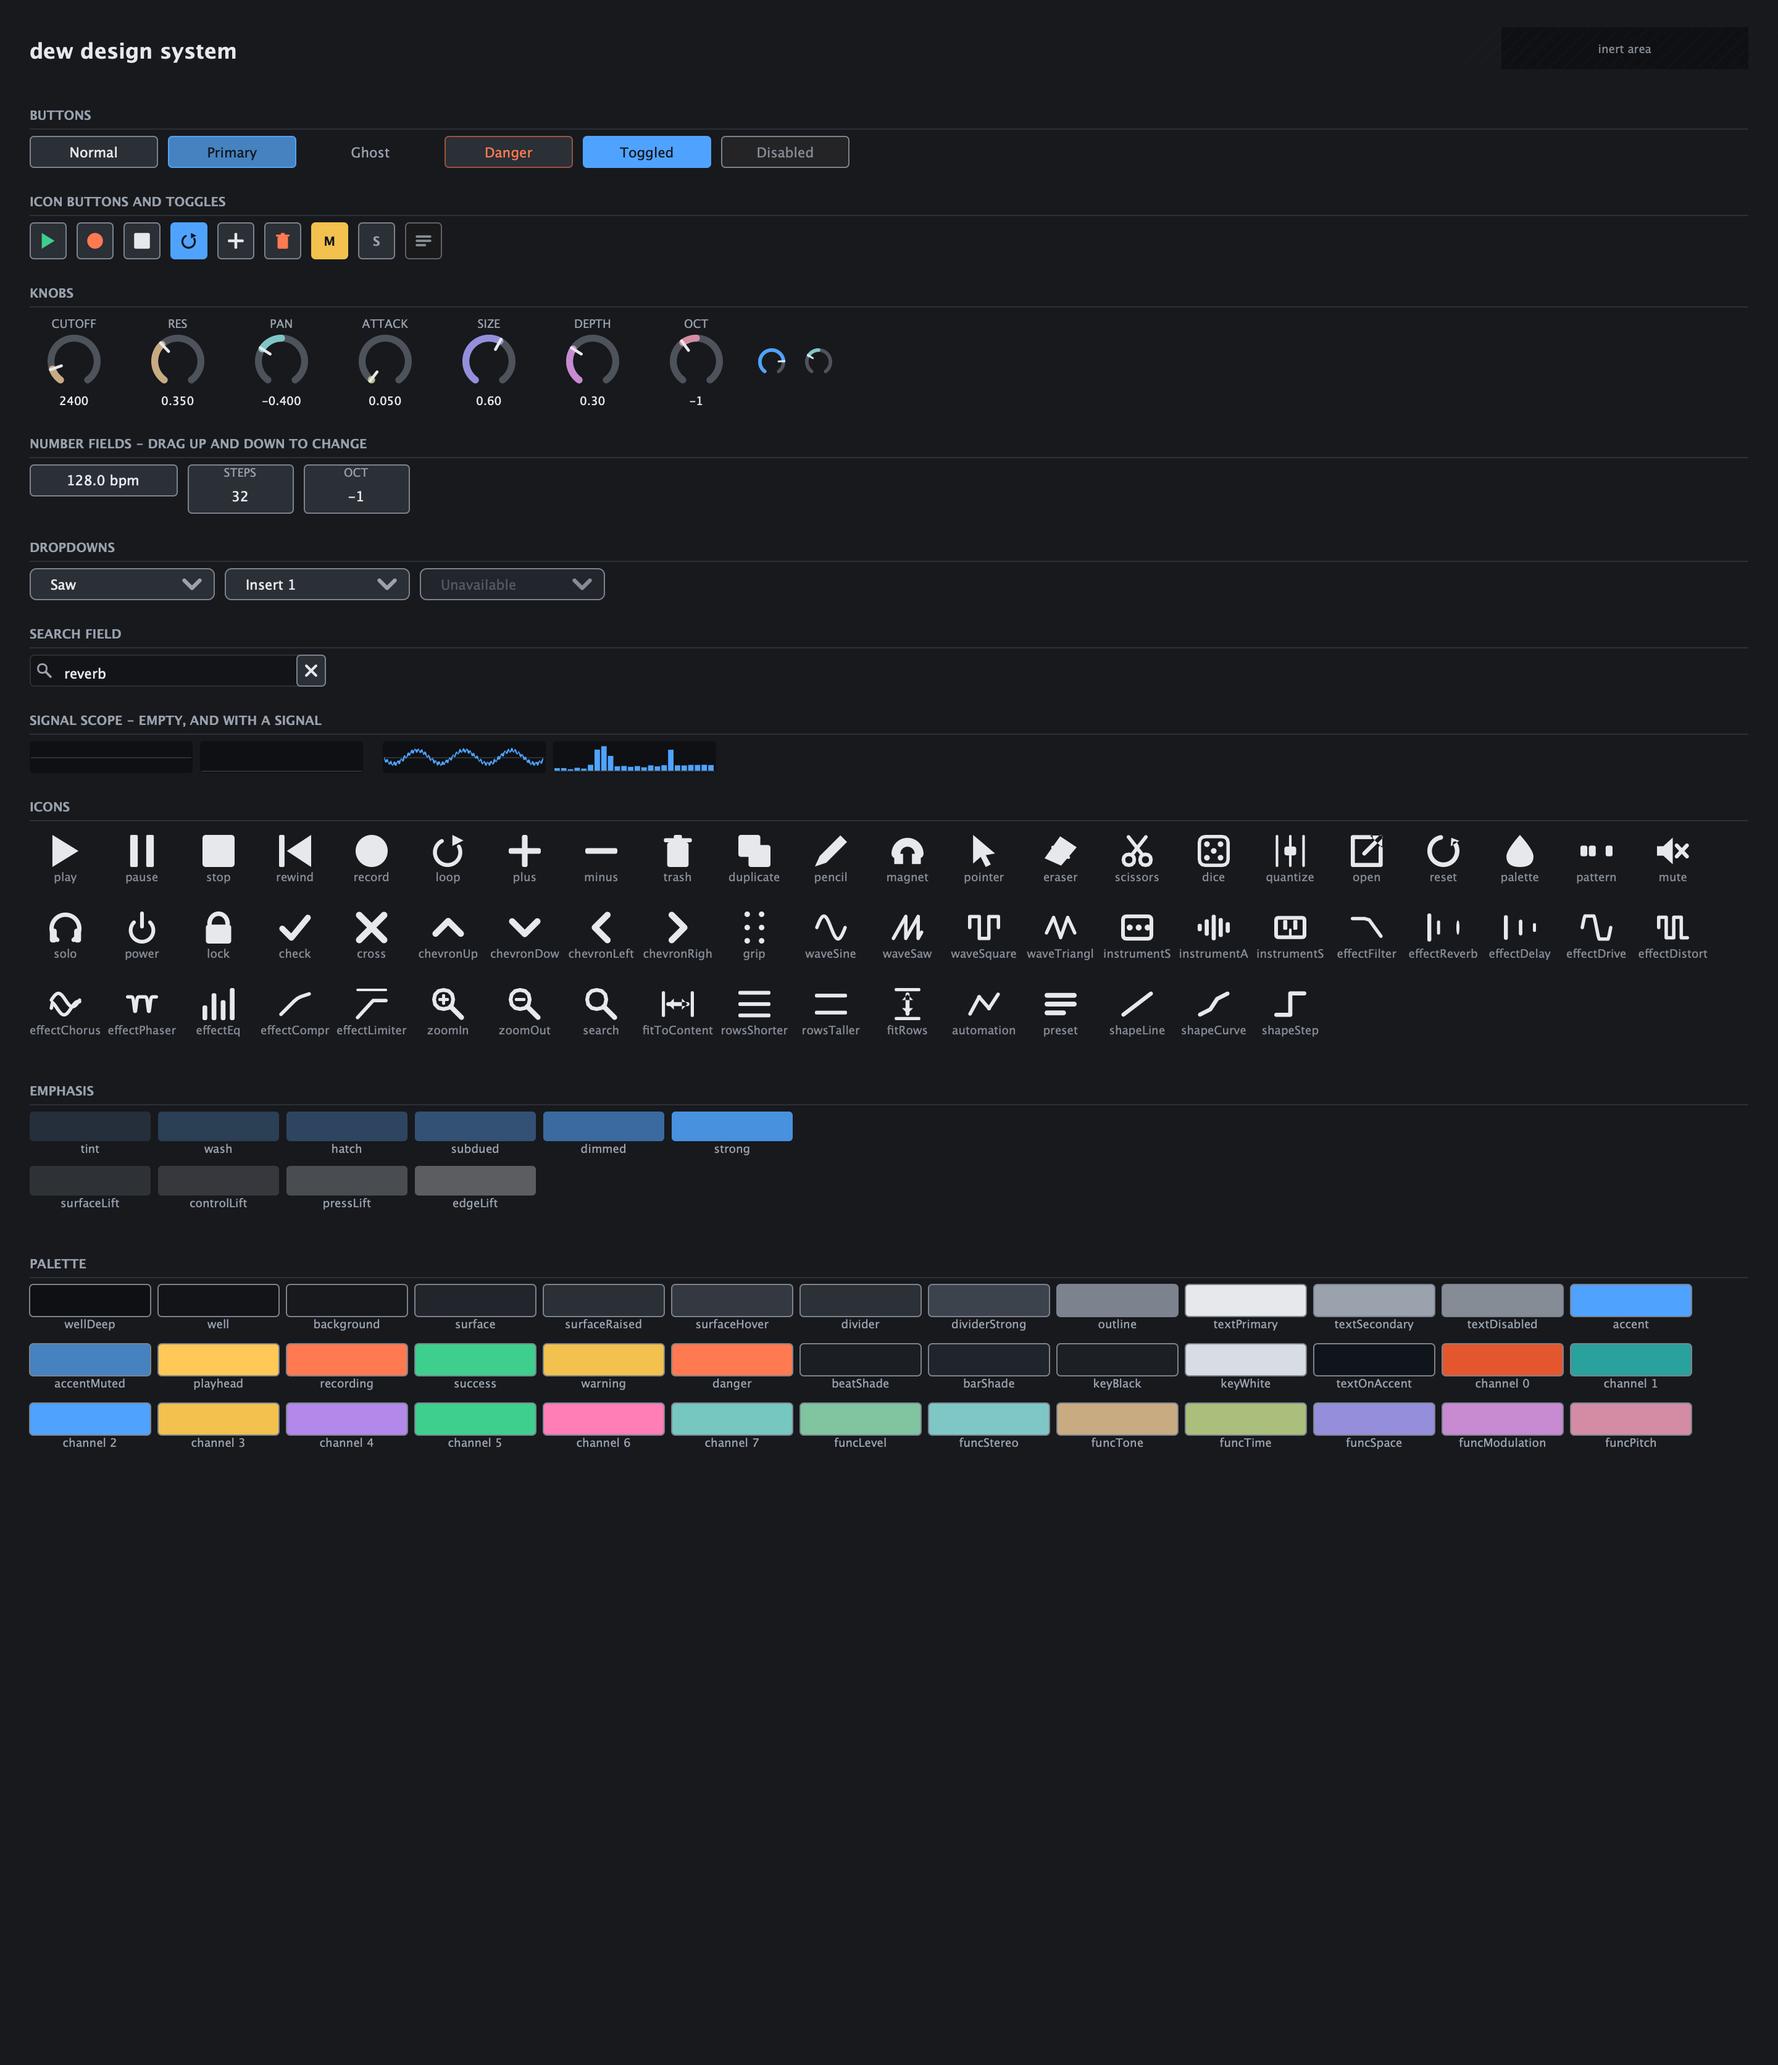
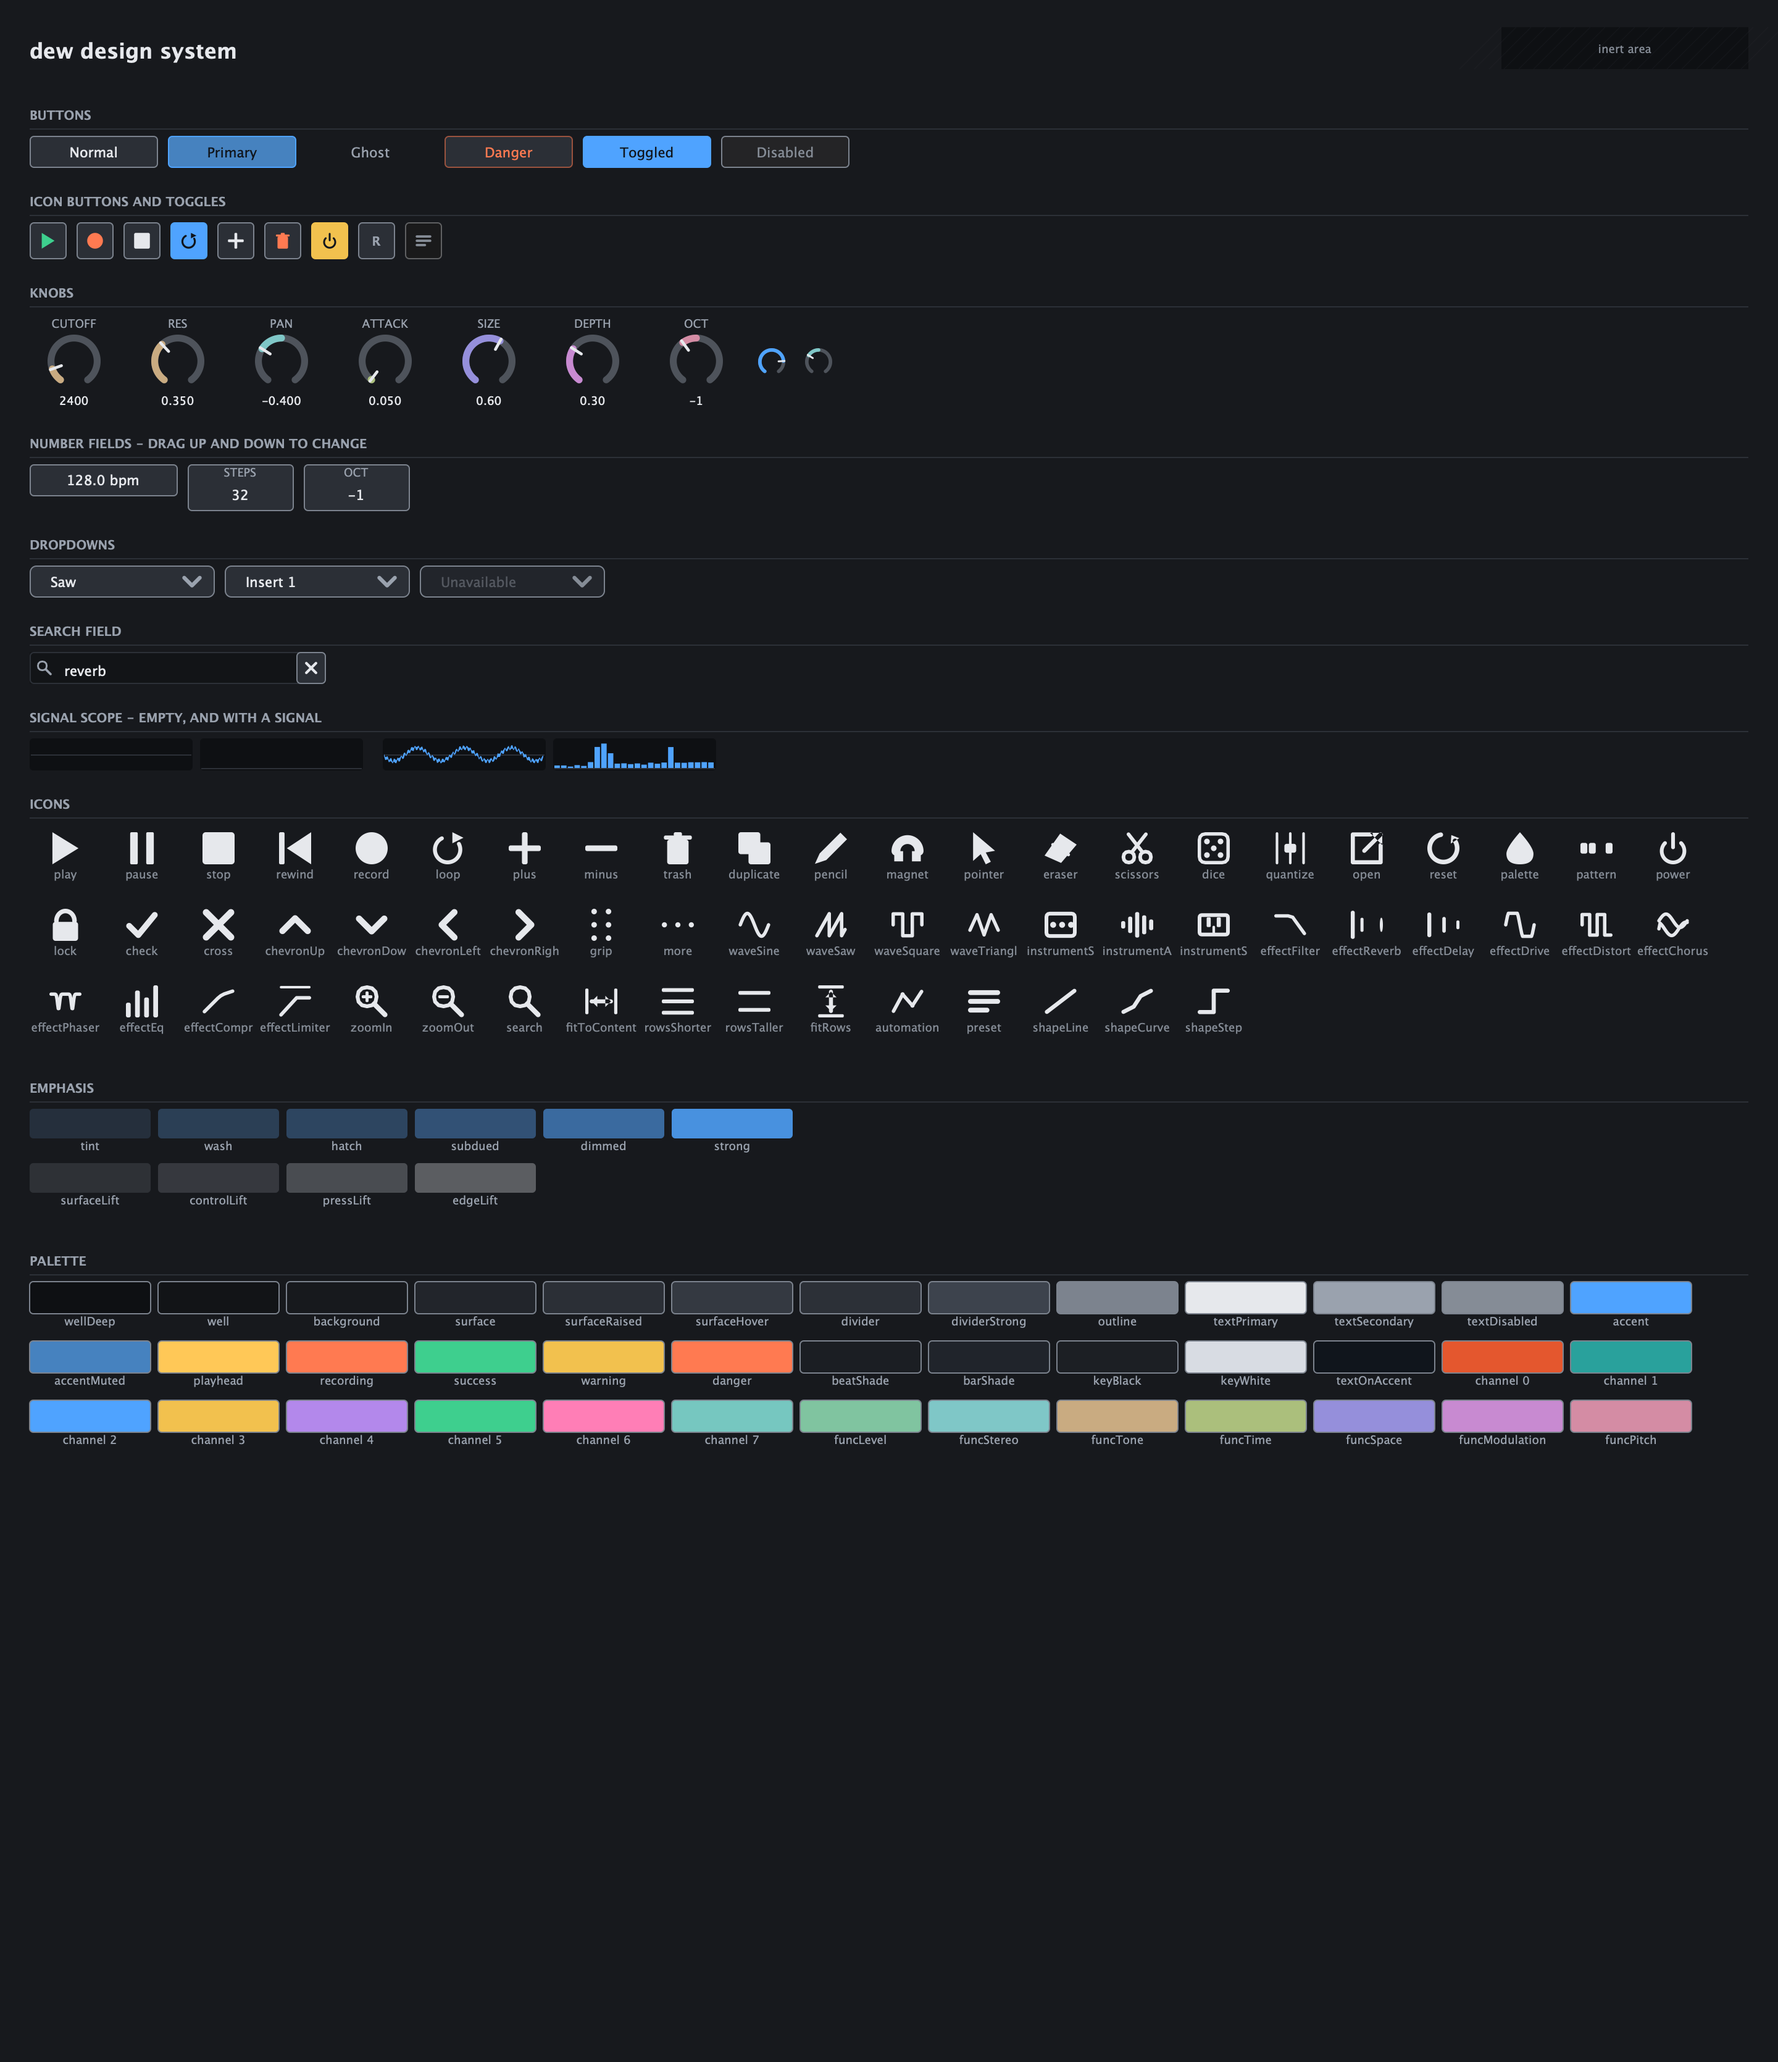
Regenerate the site's shots, and pin the gallery at the height it is
The gallery shot was committed at 3340 and the site reserved a box of
3080 for it, so tests/shots.test.ts has been failing on master - the
whole ./scripts/check.sh gate was red before any of this branch's work.
gen-shots.sh says nothing checks the shots are CURRENT, and that is
deliberate; what is checked is that the site's box matches the file, and
that had drifted.

Regenerated from the release build, which is what the script exists to
do, so the shots show the toolbars, the power glyph and the knob needles
as they now are. The pin follows the file.

diff --git a/website/src/ui/Shot.tsx b/website/src/ui/Shot.tsx
@@ -28,7 +28,7 @@ export const shotSizes = {
   playlist: { width: 2880, height: 1800 },
   mixer: { width: 2880, height: 1800 },
   score: { width: 2880, height: 1800 },
-  gallery: { width: 2880, height: 3080 },
+  gallery: { width: 2880, height: 3340 },
 } as const;
 
 export type ShotName = keyof typeof shotSizes;
